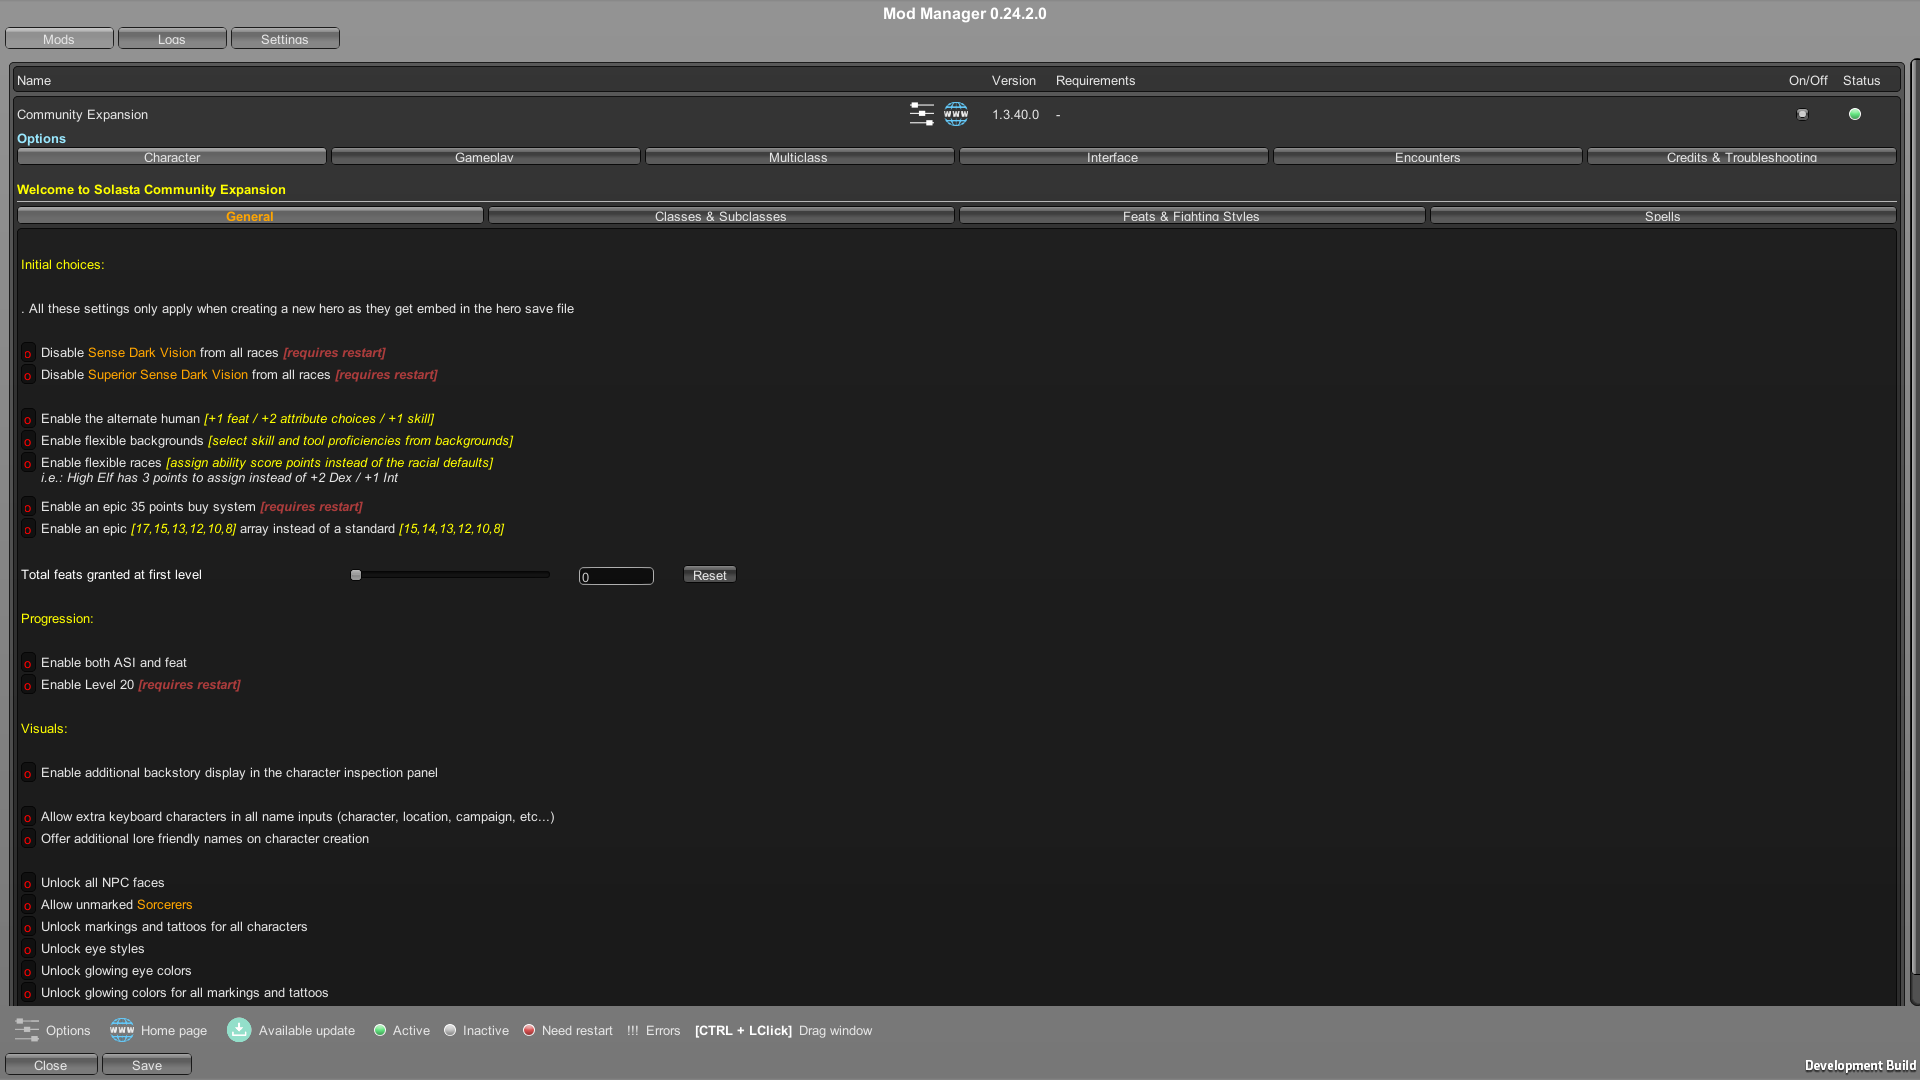
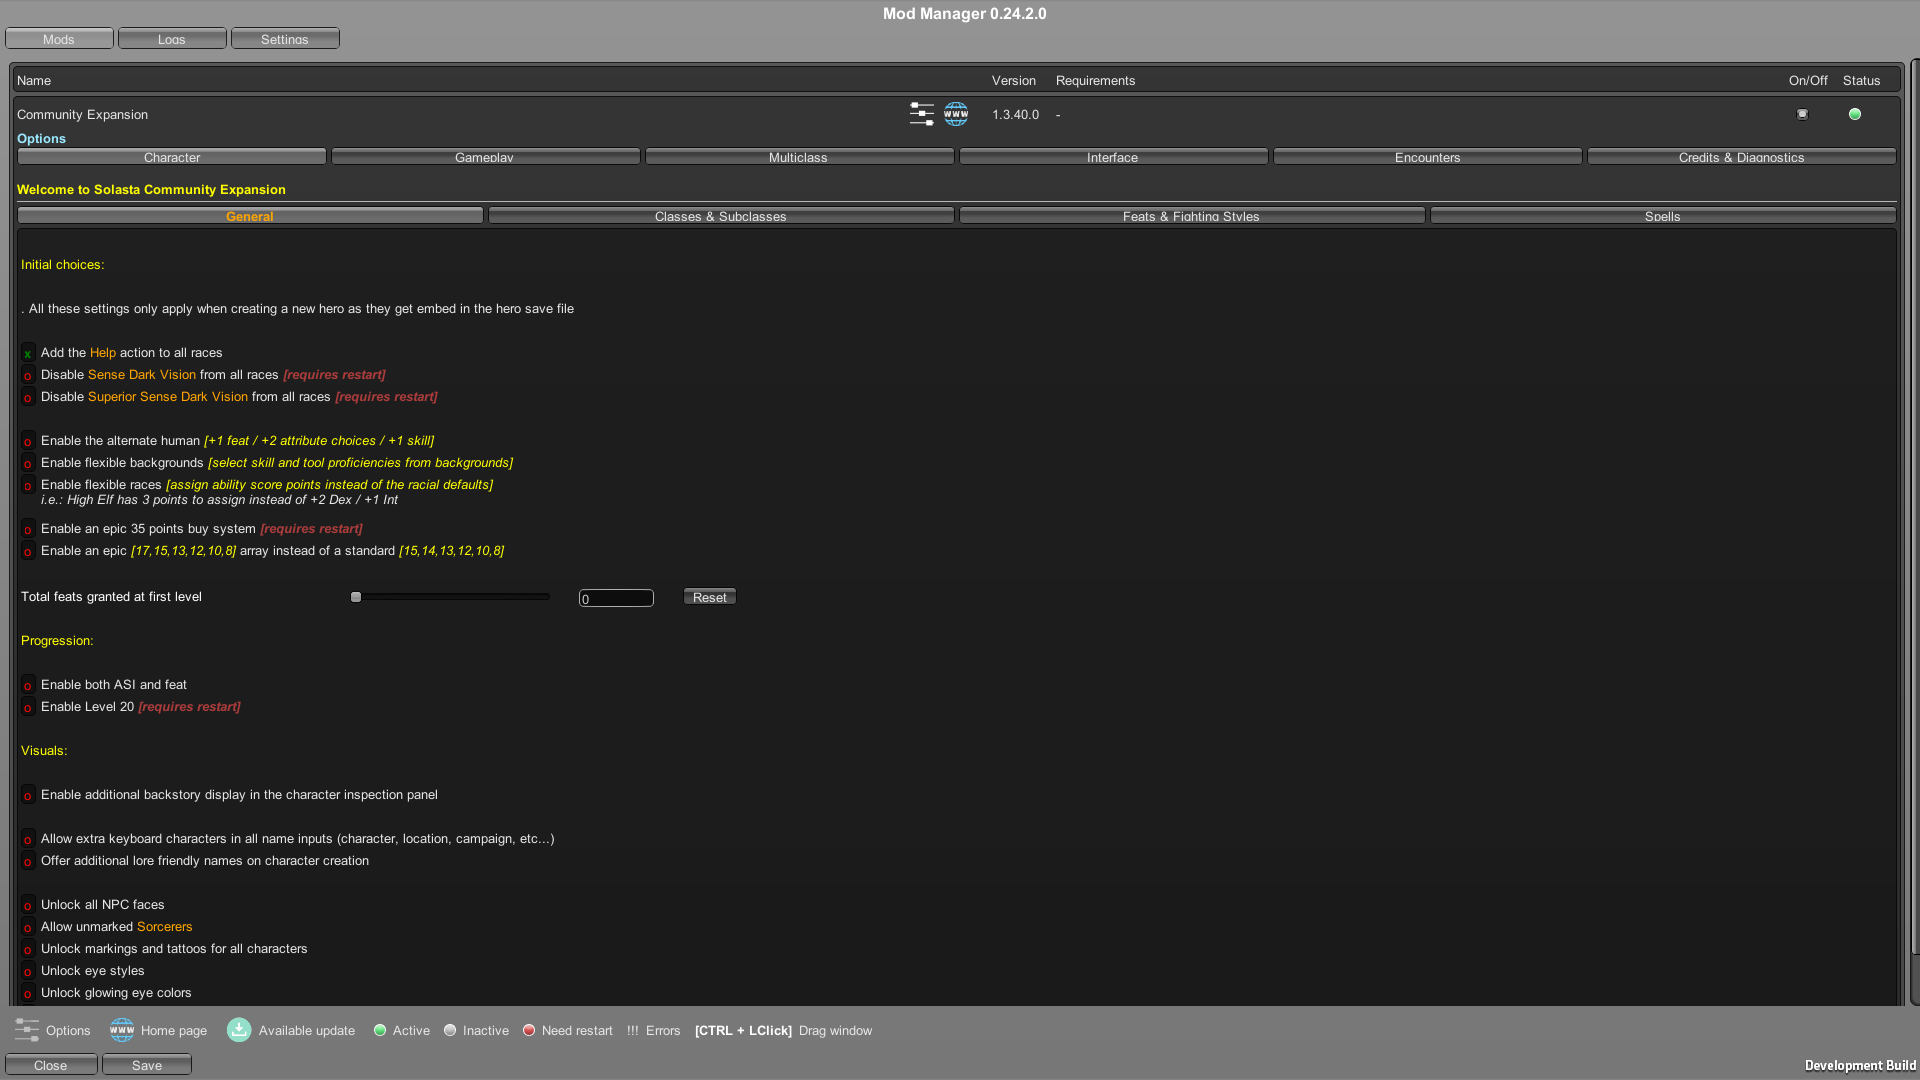
add help power to all races

diff --git a/SolastaCommunityExpansion/Models/PowersContext.cs b/SolastaCommunityExpansion/Models/PowersContext.cs
@@ -1,0 +1,82 @@
+using System;
+using System.Linq;
+using SolastaCommunityExpansion.Builders;
+using SolastaCommunityExpansion.Builders.Features;
+using SolastaModApi;
+using SolastaModApi.Extensions;
+using static SolastaModApi.DatabaseHelper.SpellDefinitions;
+
+namespace SolastaCommunityExpansion.Models
+{
+    internal static class PowersContext
+    {
+        private static readonly Guid BAZOU_POWERS_BASE_GUID = new("99cee84d-6187-4d7f-a36e-1bd96d3f2deb");
+
+        private static FeatureDefinitionPower FeatureDefinitionPowerHelpAction { get; set; }
+
+        internal static void AddToDB()
+        {
+            LoadHelpPower();
+        }
+
+        internal static void Switch()
+        {
+            SwitchHelpPower();
+        }
+
+        internal static void SwitchHelpPower()
+        {
+            var dbCharacterRaceDefinition = DatabaseRepository.GetDatabase<CharacterRaceDefinition>();
+
+            if (Main.Settings.AddHelpActionToAllRaces)
+            {
+                foreach (var characterRaceDefinition in dbCharacterRaceDefinition
+                    .Where(a => !a.FeatureUnlocks.Exists(x => x.Level == 1 && x.FeatureDefinition == FeatureDefinitionPowerHelpAction)))
+                {
+                    characterRaceDefinition.AddFeatureUnlock(FeatureDefinitionPowerHelpAction, 1);
+                }
+            }
+            else
+            {
+                foreach (var characterRaceDefinition in dbCharacterRaceDefinition
+                    .Where(a => a.FeatureUnlocks.Exists(x => x.Level == 1 && x.FeatureDefinition == FeatureDefinitionPowerHelpAction)))
+                {
+                    characterRaceDefinition.FeatureUnlocks.RemoveAll(x => x.Level == 1 && x.FeatureDefinition == FeatureDefinitionPowerHelpAction);
+                }
+            }
+        }
+
+        private static void LoadHelpPower()
+        {
+            var effectDescription = TrueStrike.EffectDescription.Copy();
+
+            effectDescription.SetRangeType(RuleDefinitions.RangeType.Touch);
+            effectDescription.SetDurationType(RuleDefinitions.DurationType.Round);
+            effectDescription.SetTargetType(RuleDefinitions.TargetType.Individuals);
+
+            var helpPowerCondition = ConditionDefinitionBuilder
+                .Create(DatabaseHelper.ConditionDefinitions.ConditionTrueStrike, "ConditionHelpPower", DefinitionBuilder.CENamespaceGuid)
+                .SetOrUpdateGuiPresentation("HelpAction", Category.Condition)
+                .AddToDB();
+
+            effectDescription.EffectForms[0].ConditionForm.ConditionDefinition = helpPowerCondition;
+
+            FeatureDefinitionPowerHelpAction = FeatureDefinitionPowerBuilder
+                .Create("HelpAction", BAZOU_POWERS_BASE_GUID)
+                .SetGuiPresentation(Category.Power, Aid.GuiPresentation.SpriteReference)
+                .Configure(
+                    1,
+                    RuleDefinitions.UsesDetermination.Fixed,
+                    AttributeDefinitions.Charisma,
+                    RuleDefinitions.ActivationTime.Action,
+                    0,
+                    RuleDefinitions.RechargeRate.AtWill,
+                    false,
+                    false,
+                    AttributeDefinitions.Charisma,
+                    effectDescription,
+                    true)
+                .AddToDB();
+        }
+    }
+}

diff --git a/SolastaCommunityExpansion/Patches/GameManagerPatcher.cs b/SolastaCommunityExpansion/Patches/GameManagerPatcher.cs
@@ -1,6 +1,5 @@
 using System.Diagnostics.CodeAnalysis;
 using HarmonyLib;
-using SolastaCommunityExpansion.CustomDefinitions;
 using SolastaCommunityExpansion.Models;
 using UnityModManagerNet;
 #if DEBUG
@@ -48,6 +47,9 @@ namespace SolastaCommunityExpansion.Patches
             Level20Context.Load();
             PickPocketContext.Load();
 
+            // Powers needs to be added to db before spells because of summoned creatures that have new powers defined here.
+            PowersContext.AddToDB();
+
             RemoveBugVisualModelsContext.Load();
             RemoveIdentificationContext.Load();
             RespecContext.Load();
@@ -57,9 +59,6 @@ namespace SolastaCommunityExpansion.Patches
             SrdAndHouseRulesContext.Load();
             TelemaCampaignContext.Load();
             VisionContext.Load();
-
-            // Always load multiclass blueprints to avoid issues loading heroes from files
-            MulticlassContext.Load();
 
             // Races may rely on spells and powers being in the DB before they can properly load.
             RacesContext.Load();
@@ -80,6 +79,9 @@ namespace SolastaCommunityExpansion.Patches
 
                 // There are feats that need all character classes loaded before they can properly be setup.
                 FeatsContext.Load();
+
+                // Generally available powers need all classes in the db before they are initialized here.
+                PowersContext.Switch();
 
                 // Spells context needs character classes (specifically spell lists) in the db in order to do it's work.
                 SpellsContext.Load();

diff --git a/SolastaCommunityExpansion/Viewers/Displays/CharacterDisplay.cs b/SolastaCommunityExpansion/Viewers/Displays/CharacterDisplay.cs
@@ -30,6 +30,13 @@ namespace SolastaCommunityExpansion.Viewers.Displays
             UI.Label(". All these settings only apply when creating a new hero as they get embed in the hero save file");
             UI.Label("");
 
+            toggle = Main.Settings.AddHelpActionToAllRaces;
+            if (UI.Toggle("Add the " + "Help".orange() + " action to all races", ref toggle, UI.AutoWidth()))
+            {
+                Main.Settings.AddHelpActionToAllRaces = toggle;
+                PowersContext.Switch();
+            }
+
             // TODO: vision changes only take effect when creating a character. not sure if new block label is clear enough on intentions or we need more explanation here.
             toggle = Main.Settings.DisableSenseDarkVisionFromAllRaces;
             if (UI.Toggle("Disable " + "Sense Dark Vision".orange() + " from all races " + RequiresRestart, ref toggle, UI.AutoWidth()))

diff --git a/SolastaCommunityExpansion/Settings.cs b/SolastaCommunityExpansion/Settings.cs
@@ -111,6 +111,7 @@ namespace SolastaCommunityExpansion
 
         // Initial Choices
         public bool AllowDisplayAllUnofficialContent { get; set; }
+        public bool AddHelpActionToAllRaces { get; set; }
         public bool DisableSenseDarkVisionFromAllRaces { get; set; }
         public bool DisableSenseSuperiorDarkVisionFromAllRaces { get; set; }
         public bool EnableAlternateHuman { get; set; }
